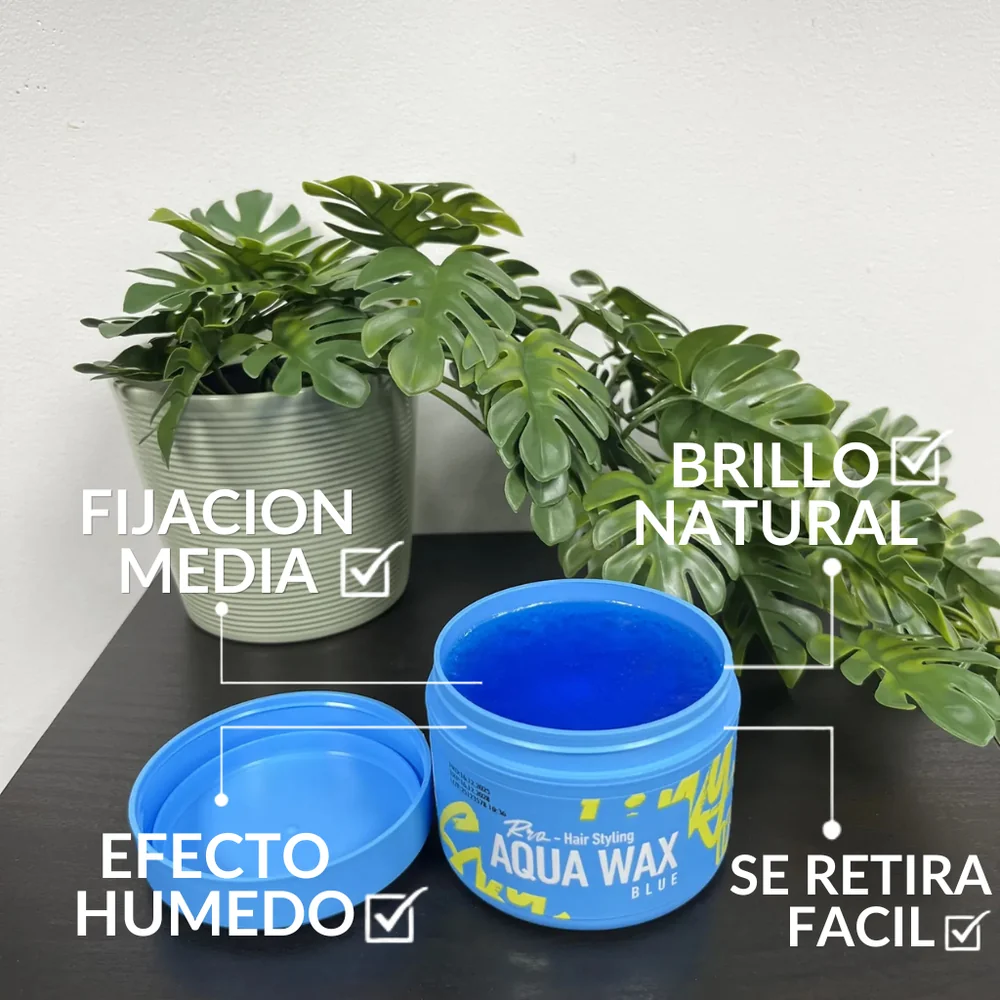
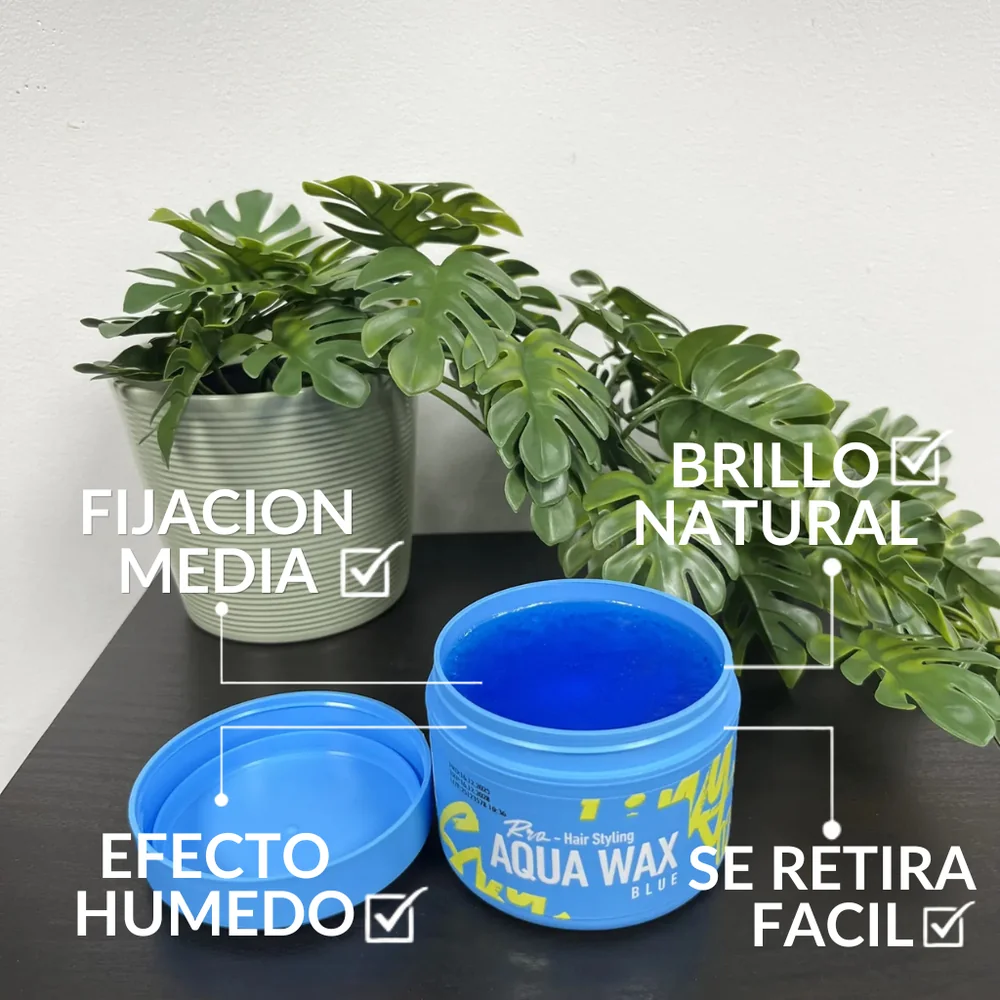
Actualizar ajustes en las imagenes informativas de ceras
El negocio ajusto las 9 piezas graficas nuevamente. Se reemplazan los assets/img/products/*-info.webp correspondientes y se bumpea el query ?v= en manifest.js y en cada ficha de producto para invalidar cache. Verificado por fetch (200 OK, tamaños correctos) ya que el panel del navegador no renderizo captura visual en esta sesion.

Changed region(s): [[0.682, 0.837, 0.992, 0.961]]

diff --git a/lib/manifest.js b/lib/manifest.js
@@ -258,7 +258,7 @@
         id: "cera-deluxe-matte-wax-peony",
         icon: "tin",
         photo: "assets/img/products/cera-deluxe-matte-wax-peony-1.webp",
-        photoHover: "assets/img/products/cera-deluxe-matte-wax-peony-info.webp?v=3",
+        photoHover: "assets/img/products/cera-deluxe-matte-wax-peony-info.webp?v=4",
         category: "ceras",
         brand: "ROQVEL",
         name: "Cera Deluxe Matte Wax",
@@ -304,7 +304,7 @@
         id: "cera-deluxe-matte-pasta-fuchsia",
         icon: "tin",
         photo: "assets/img/products/cera-deluxe-matte-pasta-fuchsia-1.webp",
-        photoHover: "assets/img/products/cera-deluxe-matte-pasta-fuchsia-info.webp?v=3",
+        photoHover: "assets/img/products/cera-deluxe-matte-pasta-fuchsia-info.webp?v=4",
         category: "ceras",
         brand: "ROQVEL",
         name: "Cera Deluxe Matte",
@@ -320,7 +320,7 @@
         id: "cera-aqua-wax-orange",
         icon: "tin",
         photo: "assets/img/products/cera-aqua-wax-orange-1.webp",
-        photoHover: "assets/img/products/cera-aqua-wax-orange-info.webp?v=2",
+        photoHover: "assets/img/products/cera-aqua-wax-orange-info.webp?v=3",
         category: "ceras",
         brand: "ROQVEL",
         name: "Cera Aqua Wax con brillo",
@@ -337,7 +337,7 @@
         id: "cera-aqua-wax-red",
         icon: "tin",
         photo: "assets/img/products/cera-aqua-wax-red-1.webp",
-        photoHover: "assets/img/products/cera-aqua-wax-red-info.webp?v=3",
+        photoHover: "assets/img/products/cera-aqua-wax-red-info.webp?v=4",
         category: "ceras",
         brand: "ROQVEL",
         name: "Cera Aqua Wax con brillo",
@@ -353,7 +353,7 @@
         id: "cera-aqua-wax-blue",
         icon: "tin",
         photo: "assets/img/products/cera-aqua-wax-blue-1.webp",
-        photoHover: "assets/img/products/cera-aqua-wax-blue-info.webp?v=2",
+        photoHover: "assets/img/products/cera-aqua-wax-blue-info.webp?v=3",
         category: "ceras",
         brand: "ROQVEL",
         name: "Cera Aqua Wax con brillo",
@@ -369,7 +369,7 @@
         id: "cera-spider-wax-purple",
         icon: "tin",
         photo: "assets/img/products/cera-spider-wax-purple-1.webp",
-        photoHover: "assets/img/products/cera-spider-wax-purple-info.webp?v=3",
+        photoHover: "assets/img/products/cera-spider-wax-purple-info.webp?v=4",
         category: "ceras",
         brand: "ROQVEL",
         name: "Cera Spider Wax con brillo",
@@ -385,7 +385,7 @@
         id: "cera-matte-wax-brown",
         icon: "tin",
         photo: "assets/img/products/cera-matte-wax-brown-1.webp",
-        photoHover: "assets/img/products/cera-matte-wax-brown-info.webp?v=4",
+        photoHover: "assets/img/products/cera-matte-wax-brown-info.webp?v=5",
         category: "ceras",
         brand: "ROQVEL",
         name: "Cera Matte Wax",
@@ -401,7 +401,7 @@
         id: "cera-cream-wax-fiber-effect",
         icon: "jar",
         photo: "assets/img/products/cera-cream-wax-fiber-effect-1.webp",
-        photoHover: "assets/img/products/cera-cream-wax-fiber-effect-info.webp?v=2",
+        photoHover: "assets/img/products/cera-cream-wax-fiber-effect-info.webp?v=3",
         category: "ceras",
         brand: "ROQVEL",
         name: "Cera Cream Wax",
@@ -417,7 +417,7 @@
         id: "cera-matte-pomade-green",
         icon: "jar",
         photo: "assets/img/products/cera-matte-pomade-green-1.webp",
-        photoHover: "assets/img/products/cera-matte-pomade-green-info.webp?v=3",
+        photoHover: "assets/img/products/cera-matte-pomade-green-info.webp?v=4",
         category: "ceras",
         brand: "ROQVEL",
         name: "Cera Matte Pomade",

diff --git a/producto-cera-deluxe-matte-pasta-fuchsia.html b/producto-cera-deluxe-matte-pasta-fuchsia.html
@@ -230,7 +230,7 @@ height="0" width="0" style="display:none;visibility:hidden"></iframe></noscript>
               <img src="assets/img/products/cera-deluxe-matte-pasta-fuchsia-3.webp" alt="Cera Deluxe Matte Pasta Fuchsia — Detalle de textura" width="1400" height="1400" loading="lazy" />
             </div>
             <div class="pdp-gallery-slide" data-slide="3">
-              <img src="assets/img/products/cera-deluxe-matte-pasta-fuchsia-info.webp?v=3" alt="Cera Deluxe Matte Pasta Fuchsia — Beneficios y características" width="1400" height="1400" loading="lazy" />
+              <img src="assets/img/products/cera-deluxe-matte-pasta-fuchsia-info.webp?v=4" alt="Cera Deluxe Matte Pasta Fuchsia — Beneficios y características" width="1400" height="1400" loading="lazy" />
             </div>
           </div>
           <div class="pdp-gallery-thumbs" style="grid-template-columns:repeat(4,1fr)">
@@ -244,7 +244,7 @@ height="0" width="0" style="display:none;visibility:hidden"></iframe></noscript>
               <img src="assets/img/products/cera-deluxe-matte-pasta-fuchsia-3.webp" alt="" width="200" height="200" loading="lazy" />
             </button>
             <button class="pdp-thumb" type="button" data-slide-target="3" aria-label="Ver beneficios y características">
-              <img src="assets/img/products/cera-deluxe-matte-pasta-fuchsia-info.webp?v=3" alt="" width="200" height="200" loading="lazy" />
+              <img src="assets/img/products/cera-deluxe-matte-pasta-fuchsia-info.webp?v=4" alt="" width="200" height="200" loading="lazy" />
             </button>
           </div>
         </div>

diff --git a/producto-cera-deluxe-matte-wax-peony.html b/producto-cera-deluxe-matte-wax-peony.html
@@ -261,7 +261,7 @@ height="0" width="0" style="display:none;visibility:hidden"></iframe></noscript>
               <img src="assets/img/products/cera-deluxe-matte-wax-peony-4.webp" alt="Cera Deluxe Matte Wax Peony — Etiqueta del producto" width="1400" height="1400" loading="lazy" />
             </div>
             <div class="pdp-gallery-slide" data-slide="4">
-              <img src="assets/img/products/cera-deluxe-matte-wax-peony-info.webp?v=3" alt="Cera Deluxe Matte Wax Peony — Beneficios y características" width="1400" height="1400" loading="lazy" />
+              <img src="assets/img/products/cera-deluxe-matte-wax-peony-info.webp?v=4" alt="Cera Deluxe Matte Wax Peony — Beneficios y características" width="1400" height="1400" loading="lazy" />
             </div>
           </div>
           <div class="pdp-gallery-thumbs" style="grid-template-columns:repeat(5,1fr)">
@@ -278,7 +278,7 @@ height="0" width="0" style="display:none;visibility:hidden"></iframe></noscript>
               <img src="assets/img/products/cera-deluxe-matte-wax-peony-4.webp" alt="" width="200" height="200" loading="lazy" />
             </button>
             <button class="pdp-thumb" type="button" data-slide-target="4" aria-label="Ver beneficios y características">
-              <img src="assets/img/products/cera-deluxe-matte-wax-peony-info.webp?v=3" alt="" width="200" height="200" loading="lazy" />
+              <img src="assets/img/products/cera-deluxe-matte-wax-peony-info.webp?v=4" alt="" width="200" height="200" loading="lazy" />
             </button>
           </div>
         </div>

diff --git a/producto-cera-cream-wax-fiber-effect.html b/producto-cera-cream-wax-fiber-effect.html
@@ -230,7 +230,7 @@ height="0" width="0" style="display:none;visibility:hidden"></iframe></noscript>
               <img src="assets/img/products/cera-cream-wax-fiber-effect-3.webp" alt="Cera Cream Wax Fiber Effect — Detalle de textura" width="1400" height="1400" loading="lazy" />
             </div>
             <div class="pdp-gallery-slide" data-slide="3">
-              <img src="assets/img/products/cera-cream-wax-fiber-effect-info.webp?v=2" alt="Cera Cream Wax Fiber Effect — Beneficios y características" width="1400" height="1400" loading="lazy" />
+              <img src="assets/img/products/cera-cream-wax-fiber-effect-info.webp?v=3" alt="Cera Cream Wax Fiber Effect — Beneficios y características" width="1400" height="1400" loading="lazy" />
             </div>
           </div>
           <div class="pdp-gallery-thumbs" style="grid-template-columns:repeat(4,1fr)">
@@ -244,7 +244,7 @@ height="0" width="0" style="display:none;visibility:hidden"></iframe></noscript>
               <img src="assets/img/products/cera-cream-wax-fiber-effect-3.webp" alt="" width="200" height="200" loading="lazy" />
             </button>
             <button class="pdp-thumb" type="button" data-slide-target="3" aria-label="Ver beneficios y características">
-              <img src="assets/img/products/cera-cream-wax-fiber-effect-info.webp?v=2" alt="" width="200" height="200" loading="lazy" />
+              <img src="assets/img/products/cera-cream-wax-fiber-effect-info.webp?v=3" alt="" width="200" height="200" loading="lazy" />
             </button>
           </div>
         </div>

diff --git a/producto-cera-matte-pomade-green.html b/producto-cera-matte-pomade-green.html
@@ -230,7 +230,7 @@ height="0" width="0" style="display:none;visibility:hidden"></iframe></noscript>
               <img src="assets/img/products/cera-matte-pomade-green-3.webp" alt="Cera Matte Pomade Green — Detalle de textura" width="1400" height="1400" loading="lazy" />
             </div>
             <div class="pdp-gallery-slide" data-slide="3">
-              <img src="assets/img/products/cera-matte-pomade-green-info.webp?v=3" alt="Cera Matte Pomade Green — Beneficios y características" width="1400" height="1400" loading="lazy" />
+              <img src="assets/img/products/cera-matte-pomade-green-info.webp?v=4" alt="Cera Matte Pomade Green — Beneficios y características" width="1400" height="1400" loading="lazy" />
             </div>
           </div>
           <div class="pdp-gallery-thumbs" style="grid-template-columns:repeat(4,1fr)">
@@ -244,7 +244,7 @@ height="0" width="0" style="display:none;visibility:hidden"></iframe></noscript>
               <img src="assets/img/products/cera-matte-pomade-green-3.webp" alt="" width="200" height="200" loading="lazy" />
             </button>
             <button class="pdp-thumb" type="button" data-slide-target="3" aria-label="Ver beneficios y características">
-              <img src="assets/img/products/cera-matte-pomade-green-info.webp?v=3" alt="" width="200" height="200" loading="lazy" />
+              <img src="assets/img/products/cera-matte-pomade-green-info.webp?v=4" alt="" width="200" height="200" loading="lazy" />
             </button>
           </div>
         </div>

diff --git a/producto-cera-matte-wax-brown.html b/producto-cera-matte-wax-brown.html
@@ -233,7 +233,7 @@ height="0" width="0" style="display:none;visibility:hidden"></iframe></noscript>
               <img src="assets/img/products/cera-matte-wax-brown-4.webp" alt="Cera Matte Wax Brown, otro ángulo" width="1400" height="1400" loading="lazy" decoding="async" />
             </div>
             <div class="pdp-gallery-slide" data-slide="4">
-              <img src="assets/img/products/cera-matte-wax-brown-info.webp?v=4" alt="Cera Matte Wax Brown — Beneficios y características" width="1400" height="1400" loading="lazy" decoding="async" />
+              <img src="assets/img/products/cera-matte-wax-brown-info.webp?v=5" alt="Cera Matte Wax Brown — Beneficios y características" width="1400" height="1400" loading="lazy" decoding="async" />
             </div>
           </div>
           <div class="pdp-gallery-thumbs" style="grid-template-columns:repeat(5,1fr)">
@@ -250,7 +250,7 @@ height="0" width="0" style="display:none;visibility:hidden"></iframe></noscript>
               <img src="assets/img/products/cera-matte-wax-brown-4.webp" alt="" loading="lazy" decoding="async" />
             </button>
             <button class="pdp-thumb" type="button" data-slide-target="4" aria-label="Ver beneficios y características">
-              <img src="assets/img/products/cera-matte-wax-brown-info.webp?v=4" alt="" loading="lazy" decoding="async" />
+              <img src="assets/img/products/cera-matte-wax-brown-info.webp?v=5" alt="" loading="lazy" decoding="async" />
             </button>
           </div>
         </div>

diff --git a/producto-cera-spider-wax-purple.html b/producto-cera-spider-wax-purple.html
@@ -230,7 +230,7 @@ height="0" width="0" style="display:none;visibility:hidden"></iframe></noscript>
               <img src="assets/img/products/cera-spider-wax-purple-3.webp" alt="Cera Spider Wax Purple — Detalle de textura" width="1400" height="1400" loading="lazy" />
             </div>
             <div class="pdp-gallery-slide" data-slide="3">
-              <img src="assets/img/products/cera-spider-wax-purple-info.webp?v=3" alt="Cera Spider Wax Purple — Beneficios y características" width="1400" height="1400" loading="lazy" />
+              <img src="assets/img/products/cera-spider-wax-purple-info.webp?v=4" alt="Cera Spider Wax Purple — Beneficios y características" width="1400" height="1400" loading="lazy" />
             </div>
           </div>
           <div class="pdp-gallery-thumbs" style="grid-template-columns:repeat(4,1fr)">
@@ -244,7 +244,7 @@ height="0" width="0" style="display:none;visibility:hidden"></iframe></noscript>
               <img src="assets/img/products/cera-spider-wax-purple-3.webp" alt="" width="200" height="200" loading="lazy" />
             </button>
             <button class="pdp-thumb" type="button" data-slide-target="3" aria-label="Ver beneficios y características">
-              <img src="assets/img/products/cera-spider-wax-purple-info.webp?v=3" alt="" width="200" height="200" loading="lazy" />
+              <img src="assets/img/products/cera-spider-wax-purple-info.webp?v=4" alt="" width="200" height="200" loading="lazy" />
             </button>
           </div>
         </div>

diff --git a/producto-cera-aqua-wax-orange.html b/producto-cera-aqua-wax-orange.html
@@ -236,7 +236,7 @@ height="0" width="0" style="display:none;visibility:hidden"></iframe></noscript>
               <img src="assets/img/products/cera-aqua-wax-orange-3.webp" alt="Cera Aqua Wax Orange — Detalle de textura" width="1400" height="1400" loading="lazy" />
             </div>
             <div class="pdp-gallery-slide" data-slide="3">
-              <img src="assets/img/products/cera-aqua-wax-orange-info.webp?v=2" alt="Cera Aqua Wax Orange — Beneficios y características" width="1400" height="1400" loading="lazy" />
+              <img src="assets/img/products/cera-aqua-wax-orange-info.webp?v=3" alt="Cera Aqua Wax Orange — Beneficios y características" width="1400" height="1400" loading="lazy" />
             </div>
           </div>
           <div class="pdp-gallery-thumbs" style="grid-template-columns:repeat(4,1fr)">
@@ -250,7 +250,7 @@ height="0" width="0" style="display:none;visibility:hidden"></iframe></noscript>
               <img src="assets/img/products/cera-aqua-wax-orange-3.webp" alt="" width="200" height="200" loading="lazy" />
             </button>
             <button class="pdp-thumb" type="button" data-slide-target="3" aria-label="Ver beneficios y características">
-              <img src="assets/img/products/cera-aqua-wax-orange-info.webp?v=2" alt="" width="200" height="200" loading="lazy" />
+              <img src="assets/img/products/cera-aqua-wax-orange-info.webp?v=3" alt="" width="200" height="200" loading="lazy" />
             </button>
           </div>
         </div>

diff --git a/producto-cera-aqua-wax-blue.html b/producto-cera-aqua-wax-blue.html
@@ -230,7 +230,7 @@ height="0" width="0" style="display:none;visibility:hidden"></iframe></noscript>
               <img src="assets/img/products/cera-aqua-wax-blue-3.webp" alt="Cera Aqua Wax Blue — Detalle de textura" width="1400" height="1400" loading="lazy" />
             </div>
             <div class="pdp-gallery-slide" data-slide="3">
-              <img src="assets/img/products/cera-aqua-wax-blue-info.webp?v=2" alt="Cera Aqua Wax Blue — Beneficios y características" width="1400" height="1400" loading="lazy" />
+              <img src="assets/img/products/cera-aqua-wax-blue-info.webp?v=3" alt="Cera Aqua Wax Blue — Beneficios y características" width="1400" height="1400" loading="lazy" />
             </div>
           </div>
           <div class="pdp-gallery-thumbs" style="grid-template-columns:repeat(4,1fr)">
@@ -244,7 +244,7 @@ height="0" width="0" style="display:none;visibility:hidden"></iframe></noscript>
               <img src="assets/img/products/cera-aqua-wax-blue-3.webp" alt="" width="200" height="200" loading="lazy" />
             </button>
             <button class="pdp-thumb" type="button" data-slide-target="3" aria-label="Ver beneficios y características">
-              <img src="assets/img/products/cera-aqua-wax-blue-info.webp?v=2" alt="" width="200" height="200" loading="lazy" />
+              <img src="assets/img/products/cera-aqua-wax-blue-info.webp?v=3" alt="" width="200" height="200" loading="lazy" />
             </button>
           </div>
         </div>

diff --git a/producto-cera-aqua-wax-red.html b/producto-cera-aqua-wax-red.html
@@ -230,7 +230,7 @@ height="0" width="0" style="display:none;visibility:hidden"></iframe></noscript>
               <img src="assets/img/products/cera-aqua-wax-red-3.webp" alt="Cera Aqua Wax Red — Detalle de textura" width="1400" height="1400" loading="lazy" />
             </div>
             <div class="pdp-gallery-slide" data-slide="3">
-              <img src="assets/img/products/cera-aqua-wax-red-info.webp?v=3" alt="Cera Aqua Wax Red — Beneficios y características" width="1400" height="1400" loading="lazy" />
+              <img src="assets/img/products/cera-aqua-wax-red-info.webp?v=4" alt="Cera Aqua Wax Red — Beneficios y características" width="1400" height="1400" loading="lazy" />
             </div>
           </div>
           <div class="pdp-gallery-thumbs" style="grid-template-columns:repeat(4,1fr)">
@@ -244,7 +244,7 @@ height="0" width="0" style="display:none;visibility:hidden"></iframe></noscript>
               <img src="assets/img/products/cera-aqua-wax-red-3.webp" alt="" width="200" height="200" loading="lazy" />
             </button>
             <button class="pdp-thumb" type="button" data-slide-target="3" aria-label="Ver beneficios y características">
-              <img src="assets/img/products/cera-aqua-wax-red-info.webp?v=3" alt="" width="200" height="200" loading="lazy" />
+              <img src="assets/img/products/cera-aqua-wax-red-info.webp?v=4" alt="" width="200" height="200" loading="lazy" />
             </button>
           </div>
         </div>
